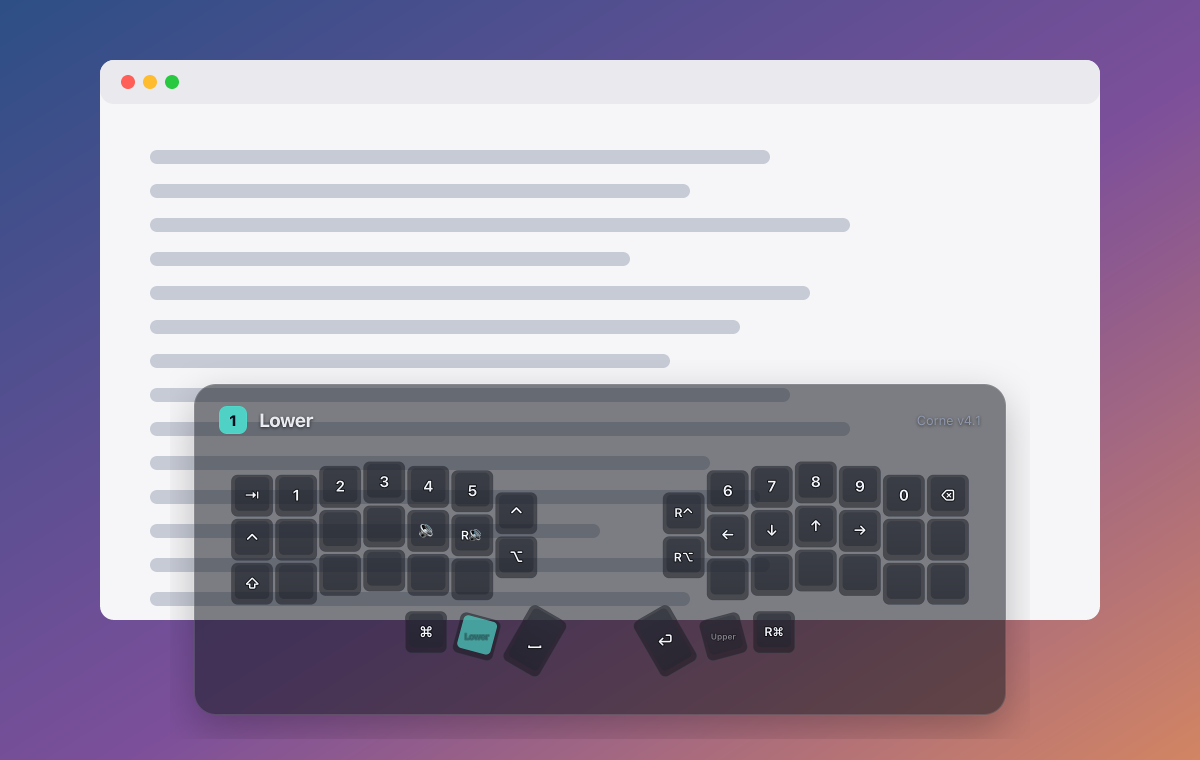
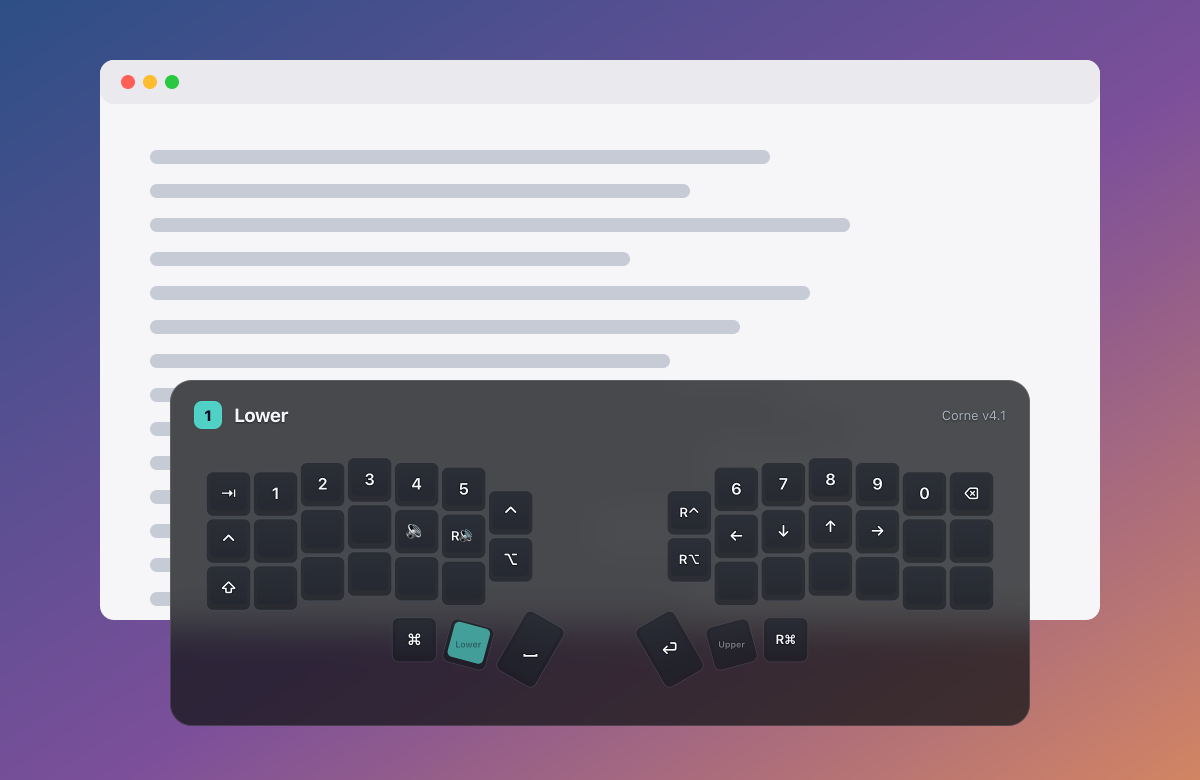
Overlay: native frosted blur and a 1 s hold
- The panel blurs whatever is behind it with the macOS HUD material
  (kept active since the overlay never takes focus); the window is now
  exactly the card so the blur fills it with matching rounded corners.
- The overlay is always dark like system HUDs; the opacity setting is now
  a tint over the blur (default 35%).
- Appears after holding a layer for 1 s; earlier untouched defaults
  (0.3 s / 2 s, 55% opacity) are migrated.

diff --git a/src/overlay/overlay.css b/src/overlay/overlay.css
@@ -1,37 +1,53 @@
-/* The overlay window is transparent; only the card is drawn. Sizes must match overlaySize(). */
+/* The overlay window is exactly the card. macOS blurs what's behind it (HUD material, see
+   create_window in src-tauri/src/overlay.rs); the card adds a dark tint and the keys.
+   Sizes must match overlaySize() in src/lib/overlaySync.ts. */
 html,
 body,
 #root {
   background: transparent !important;
   overflow: hidden;
+  height: 100%;
 }
 body {
   margin: 0;
 }
+
+/* Always dark, like system HUDs, so legends read the same in light and dark mode. */
 .ov-root {
+  --panel: #12141a;
+  --panel-2: #1c2029;
+  --line: #262b36;
+  --text: #f1f3f8;
+  --muted: #a3abbe;
+  --cap-top: #2a2f3b;
+  --cap-bottom: #20242e;
+  --cap-base: #14171d;
+  --cap-edge: #4a5162;
+  --legend: #f4f6fb;
+  color-scheme: dark;
   box-sizing: border-box;
   height: 100%;
-  padding: 24px;
   pointer-events: none;
+  color: var(--text);
 }
+
 .ov-card {
-  /* --ov-opacity (0.3–1) comes from the "Opacity" setting */
-  --ov-opacity: 0.55;
+  /* --ov-opacity (0.1–1) is the "Opacity" setting: strength of the tint over the blur */
+  --ov-opacity: 0.35;
   box-sizing: border-box;
   height: 100%;
   padding: 18px;
   border-radius: 22px;
-  background: color-mix(in srgb, var(--panel) calc(var(--ov-opacity) * 100%), transparent);
-  border: 1px solid color-mix(in srgb, var(--text) 14%, transparent);
-  box-shadow: 0 14px 40px rgb(0 0 0 / calc(var(--ov-opacity) * 0.45));
+  background: color-mix(in srgb, #0b0d12 calc(var(--ov-opacity) * 100%), transparent);
+  /* hairline edge like macOS HUD panels */
+  box-shadow: inset 0 0 0 1px rgb(255 255 255 / 0.12);
   display: flex;
   flex-direction: column;
-  animation: ov-in 0.14s ease-out;
+  animation: ov-in 0.12s ease-out;
 }
 @keyframes ov-in {
   from {
     opacity: 0;
-    transform: translateY(8px) scale(0.985);
   }
 }
 .ov-head {
@@ -67,33 +83,33 @@ body {
   max-height: none;
   flex: 1;
 }
-/* See-through keycaps: the desktop shows through, legends stay crisp. */
+.ov-card .cap {
+  cursor: default;
+}
+/* Translucent keycaps over the blur; legends stay crisp. */
 .ov-card .cap .cap-base {
-  fill-opacity: calc(var(--ov-opacity) * 0.9);
-  stroke-opacity: 0.55;
+  fill-opacity: 0.55;
+  stroke-opacity: 0.6;
 }
 .ov-card .cap .cap-top {
-  fill-opacity: calc(var(--ov-opacity) * 0.85);
+  fill-opacity: 0.5;
 }
 .ov-card .cap.pressed .cap-top {
   fill-opacity: 0.95;
 }
-/* A soft dark halo keeps legends readable over busy or bright backgrounds. */
+/* A soft dark halo keeps legends readable over bright spots in the blur. */
 .ov-card .legend,
 .ov-card .legend-hold,
 .ov-name,
 .ov-board {
   paint-order: stroke;
-  stroke: rgb(0 0 0 / 0.55);
-  stroke-width: 3px;
+  stroke: rgb(0 0 0 / 0.45);
+  stroke-width: 2.5px;
   stroke-linejoin: round;
 }
 .ov-name,
 .ov-board {
-  text-shadow: 0 1px 3px rgb(0 0 0 / 0.6);
-}
-.ov-card .cap {
-  cursor: default;
+  text-shadow: 0 1px 2px rgb(0 0 0 / 0.5);
 }
 .ov-card .cap.pressed .legend,
 .ov-card .cap.pressed .legend-hold {

diff --git a/src/lib/settings.ts b/src/lib/settings.ts
@@ -42,23 +42,28 @@ export interface OverlaySettings {
   delayMs: number;
   position: "bottom" | "center" | "top";
   size: "s" | "m" | "l";
-  /** 0.3–1: how solid the overlay's background is (legends always stay fully readable) */
+  /** 0.1–1: strength of the dark tint over the blurred background */
   opacity: number;
 }
 
-export const OVERLAY_DEFAULTS: OverlaySettings = { enabled: true, delayMs: 2000, position: "bottom", size: "m", opacity: 0.55 };
+export const OVERLAY_DEFAULTS: OverlaySettings = { enabled: true, delayMs: 1000, position: "bottom", size: "m", opacity: 0.35 };
+
+const SETTINGS_VERSION = 3;
 
 /**
- * Overlay settings with migrations: v1 defaulted to a 300 ms delay, which popped the overlay up
- * while typing on a layer; v2 waits for a deliberate 2 s hold.
+ * Overlay settings, migrating earlier defaults the user never changed:
+ * v1 → 300 ms delay (popped up while typing), v2 → 2 s (too slow), v3 → 1 s.
+ * v3 also blurs the desktop natively, so the tint (opacity) can be lighter than v2's 55%.
  */
 export function loadOverlaySettings(): OverlaySettings {
-  const saved = loadJson<OverlaySettings & { version?: number }>("overlay", { ...OVERLAY_DEFAULTS, version: 2 });
-  if ((saved.version ?? 1) < 2 && saved.delayMs === 300) saved.delayMs = OVERLAY_DEFAULTS.delayMs;
+  const saved = loadJson<OverlaySettings & { version?: number }>("overlay", { ...OVERLAY_DEFAULTS, version: SETTINGS_VERSION });
+  const version = saved.version ?? 1;
+  if (version < SETTINGS_VERSION && (saved.delayMs === 300 || saved.delayMs === 2000)) saved.delayMs = OVERLAY_DEFAULTS.delayMs;
+  if (version < SETTINGS_VERSION && saved.opacity === 0.55) saved.opacity = OVERLAY_DEFAULTS.opacity;
   const { version: _version, ...settings } = saved;
   return settings;
 }
 
 export function saveOverlaySettings(settings: OverlaySettings) {
-  saveJson("overlay", { ...settings, version: 2 });
+  saveJson("overlay", { ...settings, version: SETTINGS_VERSION });
 }

diff --git a/src/lib/overlaySync.ts b/src/lib/overlaySync.ts
@@ -11,7 +11,7 @@ export interface OverlayView {
   layoutId: LayoutId;
   layerNames: string[];
   boardName: string;
-  /** background opacity, 0.3–1 */
+  /** tint over the blurred background, 0.1–1 */
   opacity: number;
 }
 
@@ -27,9 +27,10 @@ export interface OverlayConfig {
   view: OverlayView;
 }
 
-// Must match src/overlay/overlay.css (window margin, card padding, header).
+// Must match src/overlay/overlay.css (card padding, header). The window is exactly the card:
+// macOS draws the blur behind the whole window, rounded to the card's corner radius.
 const WIDTH = { s: 640, m: 860, l: 1100 } as const;
-const MARGIN = 24;
+const MARGIN = 0;
 const CARD_PAD = 18;
 const HEADER = 42;
 const KEYBOARD_PAD = 0.35; // same as KeyboardView

diff --git a/src/components/OverlaySettings.tsx b/src/components/OverlaySettings.tsx
@@ -82,12 +82,12 @@ export function OverlaySettingsView() {
           </div>
           <div className="setting-row">
             <div>
-              <strong>Opacity {Math.round(overlay.opacity * 100)}%</strong>
-              <p className="muted small">Lower is more see-through. Key labels always stay readable.</p>
+              <strong>Background tint {Math.round(overlay.opacity * 100)}%</strong>
+              <p className="muted small">What's behind the overlay is blurred; a darker tint makes the labels stand out more.</p>
             </div>
             <input
               type="range"
-              min={0.3}
+              min={0.1}
               max={1}
               step={0.05}
               value={overlay.opacity}

diff --git a/src/overlay/OverlayApp.tsx b/src/overlay/OverlayApp.tsx
@@ -73,7 +73,7 @@ export function OverlayApp() {
       <div
         className="ov-card"
         key={showId}
-        style={{ "--accent": layerColor(ev.layer), "--ov-opacity": config.view.opacity ?? 0.55 } as React.CSSProperties}
+        style={{ "--accent": layerColor(ev.layer), "--ov-opacity": config.view.opacity ?? 0.35 } as React.CSSProperties}
       >
         <div className="ov-head">
           <span className="ov-num">{ev.layer}</span>

diff --git a/src-tauri/src/overlay.rs b/src-tauri/src/overlay.rs
@@ -8,6 +8,8 @@ use std::thread;
 use std::time::{Duration, Instant};
 
 use serde::{Deserialize, Serialize};
+use tauri::utils::config::WindowEffectsConfig;
+use tauri::window::{Effect, EffectState};
 use tauri::{AppHandle, Emitter, LogicalPosition, LogicalSize, Manager, WebviewUrl, WebviewWindow, WebviewWindowBuilder};
 
 use crate::hid::HidState;
@@ -152,6 +154,16 @@ pub fn create_window(app: &AppHandle) -> tauri::Result<()> {
         .title("Corne Studio layer overlay")
         .inner_size(820.0, 340.0)
         .transparent(true)
+        // Native frosted blur of whatever is behind the panel (macOS HUD material, like the
+        // volume pop-up). Kept "active" because the overlay never becomes the key window.
+        // Corner radius matches .ov-card in src/overlay/overlay.css. Ignored on Linux.
+        .effects(WindowEffectsConfig {
+            effects: vec![Effect::HudWindow],
+            state: Some(EffectState::Active),
+            radius: Some(22.0),
+            color: None,
+            interactive: false,
+        })
         .decorations(false)
         .shadow(false)
         .resizable(false)

diff --git a/README.md b/README.md
@@ -36,11 +36,11 @@ Six layers with their own colours (double-click a tab to rename it). Click any k
 <img src="docs/images/keymap.png" alt="Corne Studio keymap editor" />
 
 ### Layer overlay
-Hold a layer key (Lower, Raise, any `MO`/`LT`/`TT`) and a see-through heads-up display of that layer appears over whatever you're doing, even full-screen apps. Let go and it's gone. It never takes focus, so your typing keeps going to the app you're in. Lower + Upper shows Adjust, keys pressed right now are highlighted, and transparent keys show what they fall through to.
+Hold a layer key (Lower, Raise, any `MO`/`LT`/`TT`) and a frosted-glass heads-up display of that layer appears over whatever you're doing, even full-screen apps. Let go and it's gone. It never takes focus, so your typing keeps going to the app you're in. Lower + Upper shows Adjust, keys pressed right now are highlighted, and transparent keys show what they fall through to.
 
 <img src="docs/images/overlay.png" alt="Layer overlay over another app" />
 
-It appears once you've held a layer for 2 seconds (adjustable), so typing on a layer doesn't make it pop up; hold and wait when you want to look. Delay, opacity, size and position are adjustable under **Layer overlay**, along with an **Open at login** switch. While the overlay is on, closing the window keeps Corne Studio running in the background: click the Dock icon to bring it back, or quit with ⌘Q.
+It appears once you've held a layer for 1 second (adjustable), so typing on a layer doesn't make it pop up; hold and wait when you want to look. On macOS the panel blurs whatever is behind it, using the system HUD material. Delay, background tint, size and position are adjustable under **Layer overlay**, along with an **Open at login** switch. While the overlay is on, closing the window keeps Corne Studio running in the background: click the Dock icon to bring it back, or quit with ⌘Q.
 
 How it works: layer keys send nothing to the computer, so while the overlay is on, the app reads the keyboard's switch matrix about 40 times a second in a background thread (`src-tauri/src/overlay.rs`). It then resolves the active layer the way QMK does: the highest active layer that isn't transparent, plus tri-layer. Toggled layers (`TG`/`TO`/`DF`) aren't visible in the matrix, so they don't trigger it.
 
